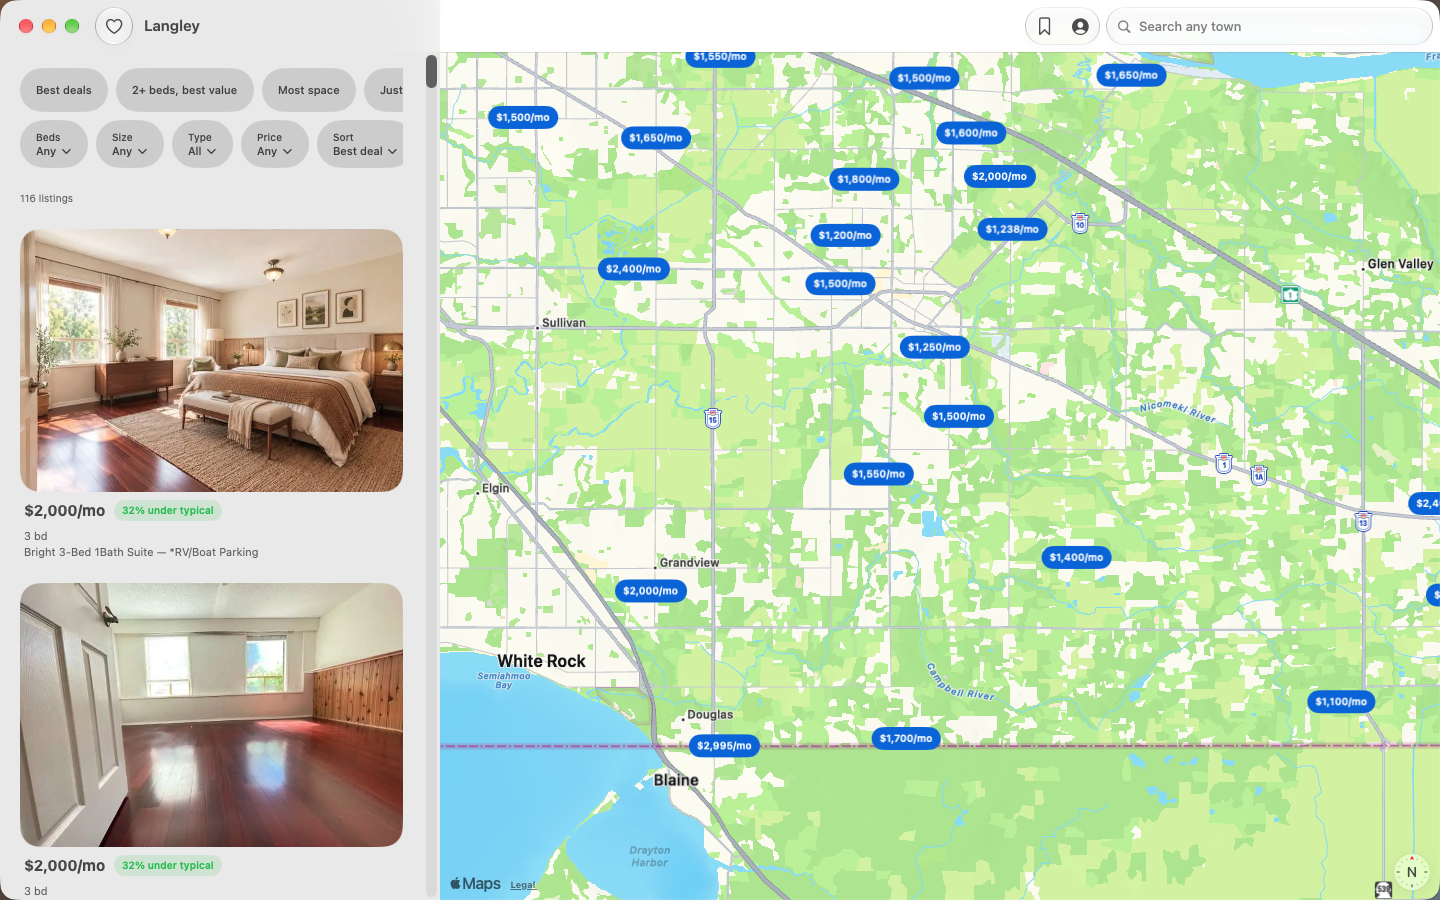
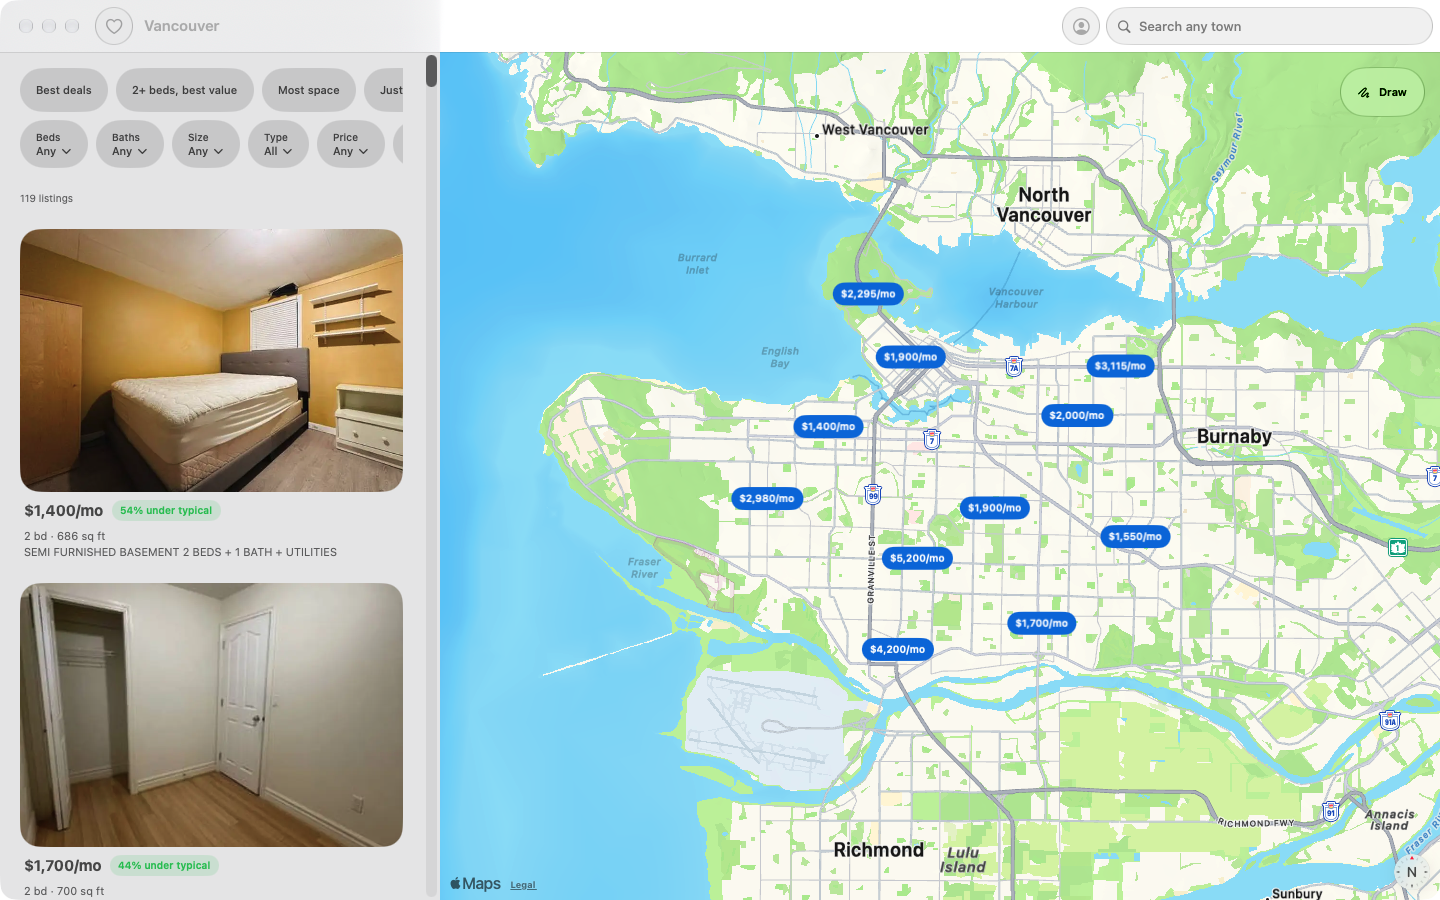
Light-mode Mac store shots; walk score seen in the running Mac app
Claude-Session: https://claude.ai/code/session_01M7cFnchjKrWEuspCSkxig3

diff --git a/docs/LOOP-HANDOFF.md b/docs/LOOP-HANDOFF.md
@@ -8,7 +8,7 @@ The App Store push for Atlin (ex-Brick, ex-Roost). It watches the review queue, 
 
 - Build 9 (iOS and Mac 1.0.0) is WAITING_FOR_REVIEW on ASC app 6824157219. It adds Sign in with Apple, email sign-in, account deletion, synced saves, the location prompt, the blue folded-map icon and the privacy label.
 - Build 10 is built and compiles on iOS and Mac: native Google sign-in, profile, saved searches, Size filter, price drops, the alerts toggle, pin culling and the Mac fixes. It ships after build 9 clears. Mac Return-to-search works in a running app (Langley to Vancouver, 119 homes). Native Google sign-in has not been tested in a running app.
-- Walk score on every home (web live, native in build 10): Overpass counts within 800 m, capped and weighted in src/lib/walk.js, mirrored in ios/Sources/Walk.swift. Overpass refuses Cloudflare Workers (521), so the browser and the apps ask it directly; osm.ch is skipped because it only holds Switzerland. Native fetch fixed (an empty Group never ran its .task) and now retries and caches; the Mac QA run hit public Overpass at capacity (502 and 500), so the rows have not yet been seen in a running app. Recheck on a quiet tick.
+- Walk score on every home (web live, native in build 10): Overpass counts within 800 m, capped and weighted in src/lib/walk.js, mirrored in ios/Sources/Walk.swift. Overpass refuses Cloudflare Workers (521), so the browser and the apps ask it directly; osm.ch is skipped because it only holds Switzerland. Seen in the running Mac app (Vancouver listing: 100, Very walkable, 30 transit stops, 6 schools).
 - Web has draw-on-map search: a Draw capsule at the top right of the map, trace a loop, only homes inside it stay (count, pins and cards). Clear area undoes it; a new place clears it. iOS and Mac have it too (same Draw capsule, same ray-casting check in Store.swift), QA'd in a running Mac app, ships in build 10.
 - Web at atlin.jaybulb.com has Google and Apple sign-in, price drops, the Size filter, daily saved-search email alerts (toggle in Settings; sender in jaybulb-api, run by a GitHub Action), and translations in all 27 languages with the auth pages localized.
 - The iOS and Mac Account sheets have the email-alerts toggle. Store screenshots for iPhone and Mac are refreshed, and the web promo video (27 seconds) is live.
@@ -22,6 +22,7 @@ The App Store push for Atlin (ex-Brick, ex-Roost). It watches the review queue, 
 - Zillow (US, rent and sale) and REW.ca (BC and Alberta rentals) are wired in functions/api/listings.js, both off until the Pages vars ZILLOW and REW are "on". Joshua: switch them on after build 9 clears. Both are free. Zillow reads the JSON its own search page asks for (async-create-search-page-state) straight from the Function: Austin gives 493 rentals and 503 sales in under a second; building pins carry their cheapest plan. REW reads two area pages a town and geocodes addresses through Photon, cached in KV (Vancouver: 40 cards, about 34 placed once the cache fills). Apify is at its monthly hard limit (HousingFeed paused) and Joshua said no to paying more. Probe: `/api/listings?...&zillowProbe=$ZILLOW_PROBE`, add `&source=rew` for REW (key in .env, sha256 in code).
 - Open houses come with Zillow (US sale pins): `openHouse` text plus `openHouses` times; web shows them on the card and the listing page, native in the card and detail (build 10). They appear once ZILLOW is on.
 - Baths filter (Any, 1+, 1.5+, 2+, 3+) on web (live) and native (build 10); homes with no bath count drop out once a minimum is set.
+- Light-mode Mac store shots (1440x900) are in screenshots/mac: 1-browse (Vancouver, Baths filter and Draw) and 2-detail (walk score). Upload them with build 10's version; 1.0.0 is locked while in review.
 - Bundle ID stays com.nulljosh.brick and the Pages project stays roost. Those cannot be renamed.
 
 ## Next, in order
@@ -29,7 +30,6 @@ The App Store push for Atlin (ex-Brick, ex-Roost). It watches the review queue, 
 1. Watch review for build 9. If Apple rejects, read the reason in Resolution Center, draft replies, and wait for Joshua's yes before sending anything.
 2. Real-device test of Sign in with Apple on a signed build.
 3. Native Google sign-in: confirm the iOS OAuth client exists, test it in a running app, then ship build 10.
-4. Light-mode Mac shots.
 5. Open issues: #13, #15, #16, #17, #18, #19, #23 and #25. Do not run the roadmap-to-issues sync until its duplicates are sorted, since it would reopen mirrors under new titles.
 
 ## Restart prompt

diff --git a/roadmap.md b/roadmap.md
@@ -5,7 +5,6 @@ Open work only. Resume state lives in `docs/LOOP-HANDOFF.md`.
 ## Ship
 - [ ] Build 9 clears review, then ship build 10 (iOS and Mac)
 - [ ] Test native Google sign-in and Sign in with Apple on a real signed build
-- [ ] Light-mode Mac screenshots
 
 ## Gaps vs Zillow and REW
 
